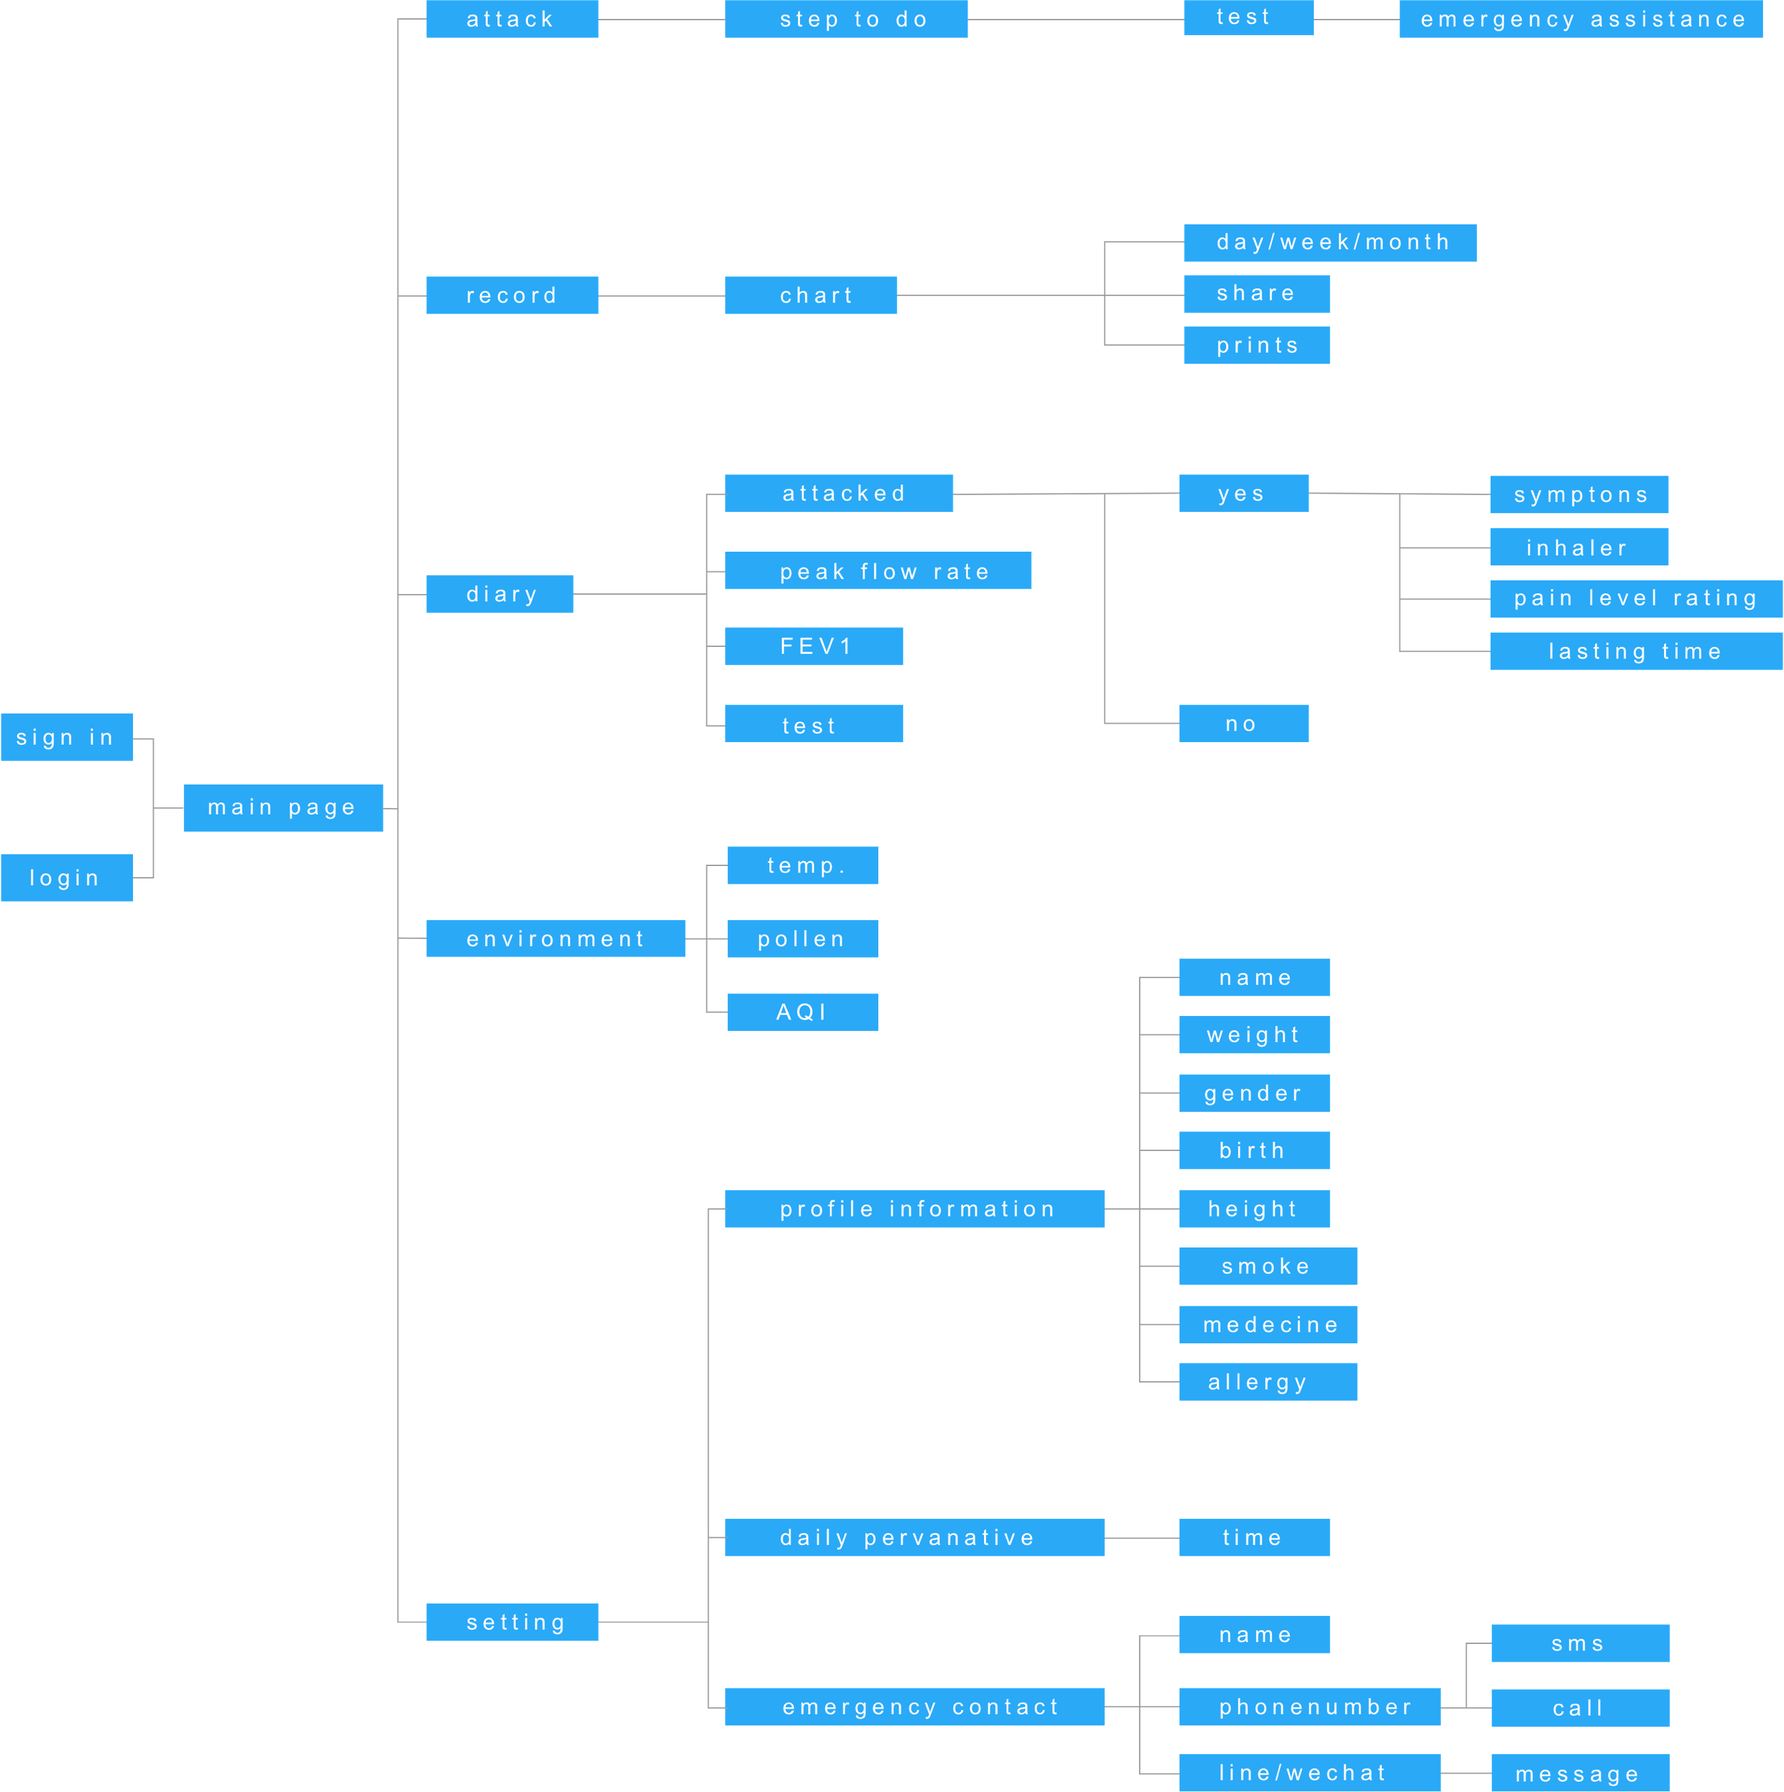
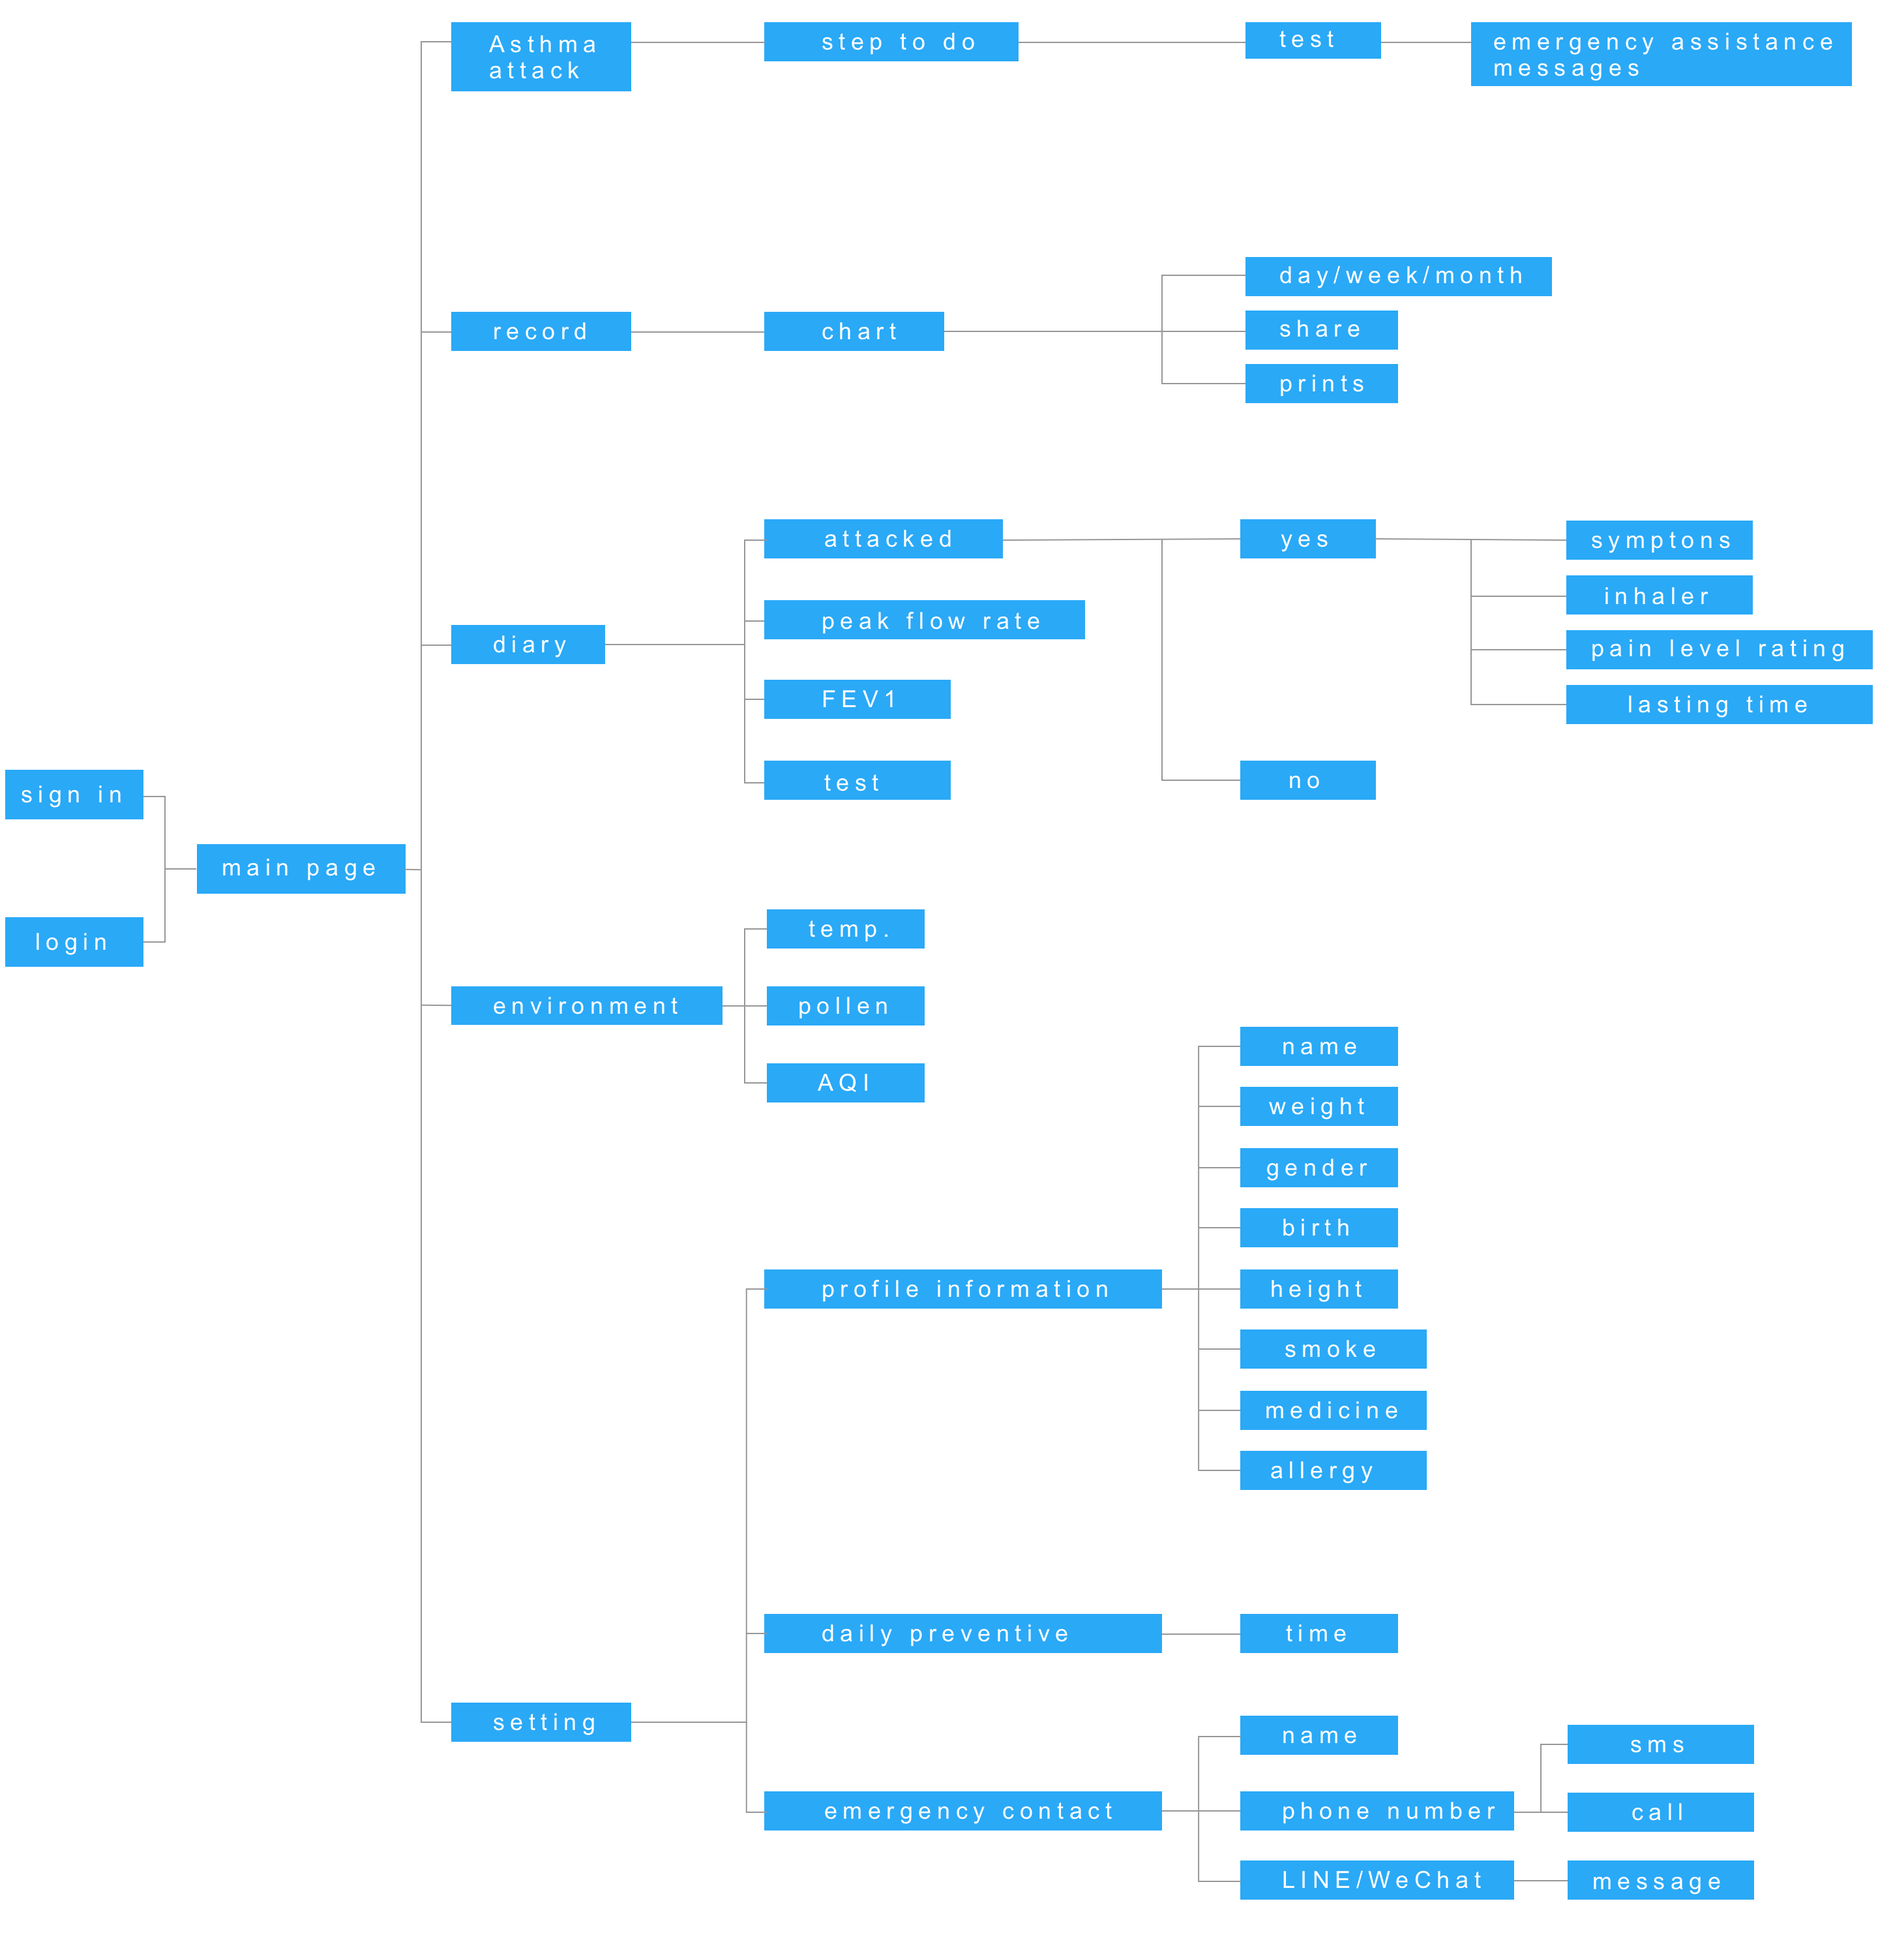
01081136

diff --git a/asthma.html b/asthma.html
@@ -97,24 +97,25 @@
                     <img src="img/as_p6-bg.png" alt="">
                     <p id="aslogin">Log in and <br>
                         fill in the Profile Information</p>
-                    <p id="assmoke">Smoke habit and medecine <br>
+                    <p id="assmoke">Smoke habit and medicine <br>
                         allergy history can help the clinician <br>
                         know more about the patients.</p>
                     <img id="asp6profile" src="img/as_p6-1profile.png" alt="">
                     <p id="asmainpage">Mainpage</p>
-                    <p id="aswhenfeel">When feel bad or asthma attack, <br>
-                        press the Attack button. </p>
-                    <p id="asusethelens">Use the lens of a mobile phone <br>
+                    <p id="aswhenfeel">When feeling uncomfortable or asthma attacks, <br>
+                        press the button - Asthma Attack.
+                    </p>
+                    <p id="asusethelens">Use the front camera of a mobile phone <br>
                         to capture the light and dark <br>
                         changes caused by the blood <br>
                         flow through the fingers when <br>
                         the heartbeat. <br>
-                        It is abnormal when heart rate <br>
-                        over 110 bpm (time/min).</p>
+                        It is abnormal when heart rate is  <br>
+                        over 110 bpm (beats per min).</p>
                     <p id="asusethephone">Use the phone's microphone <br>
                         to receive sound of breath. <br>
                         It is abnormal when breath rate <br>
-                        over 25 bpm(time/ min).</p>
+                        is over 25 brpm (breaths per min). </p>
                     <p id="assendtheemergency">Send the emergency assistance message <br>
                         automatically. Also, the data will all be <br>
                         recorded. <br>
@@ -123,23 +124,25 @@
                     </p>
                     <img id="asp6attack" src="img/as_p6-2attack.png" alt="">
                     <p id="astheaqi">The AQI (Air Quality Index), <br>
-                        pollen and temperature <br>  
-                        is very important for asthma <br>
+                        pollen and temperature <br>
+                        are very important for asthma <br>
                         patient to prevent attack. </p>
                     <img id="asp6aqi" src="img/as_p6-3aqi.png" alt="">
                     <p id="asthelevel">The level of AQI and Pollen <br>
                         will also appears on the <br>
                         main page.</p>
                     <img id="asp6icon" src="img/as_p6-4icon.png" alt="">
-                    <p id="astheappcan" >The app can help the patient to monitor and record <br>
-                        their condition. The app allows users to record inhaler <br>
-                        use and symptoms in a customizable diary.
-                        </p>
+                    <p id="astheappcan">The app helps patients to monitor and record their<br> 
+                        heart rate and respiratory rate. The app allows patients<br>
+                         to record their symptoms and inhaler usage in the<br>
+                         editable diary. 
+                    </p>
                     <img id="asp6diary" src="img/as_p6-5diary.png" alt="">
                     <p id="asinaddition">In addition, patients can share <br>
-                        the data with their clinician.</p>
+                        the data with their clinicians.</p>
                     <img id="asp6record" src="img/as_p6-6record.png" alt="">
-                    <p id="astheappallows">The app allows patients to set the alarm to remind them to take medecine, <br>
+                    <p id="astheappallows">The app allows patients to set the alarm to remind them to take medicine,
+                        <br>
                         or write the daily record on the app. <br>
                         The patients can set the message by themselves.</p>
                     <img id="asp6reminder" src="img/as_p6-7reminder.png" alt="">
